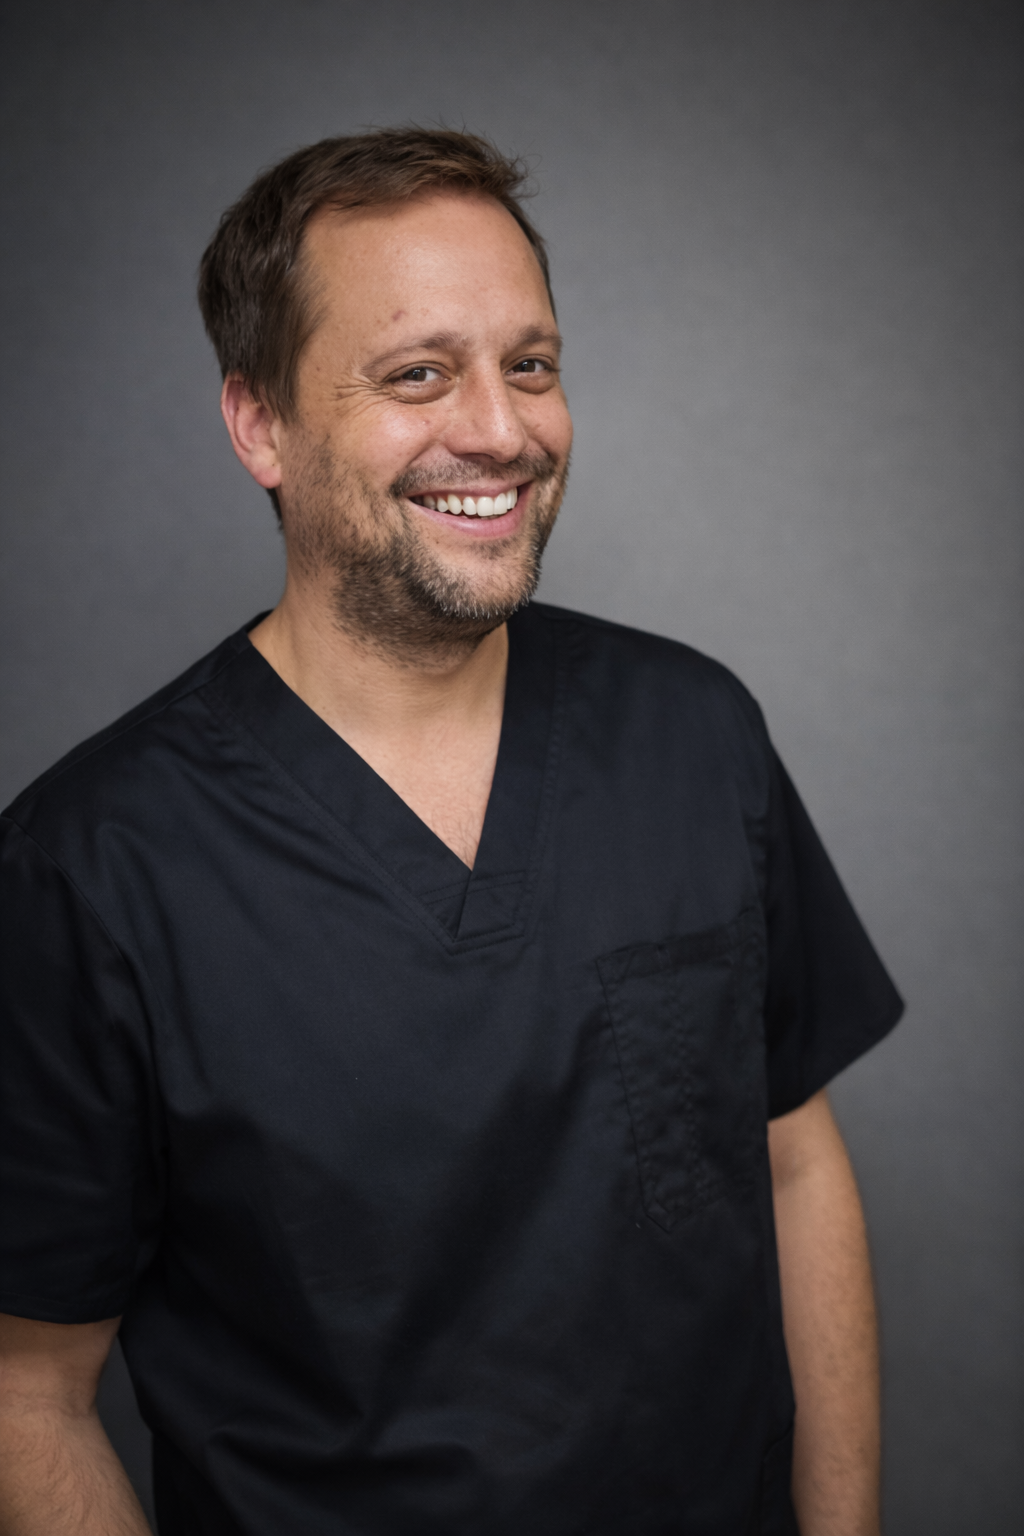
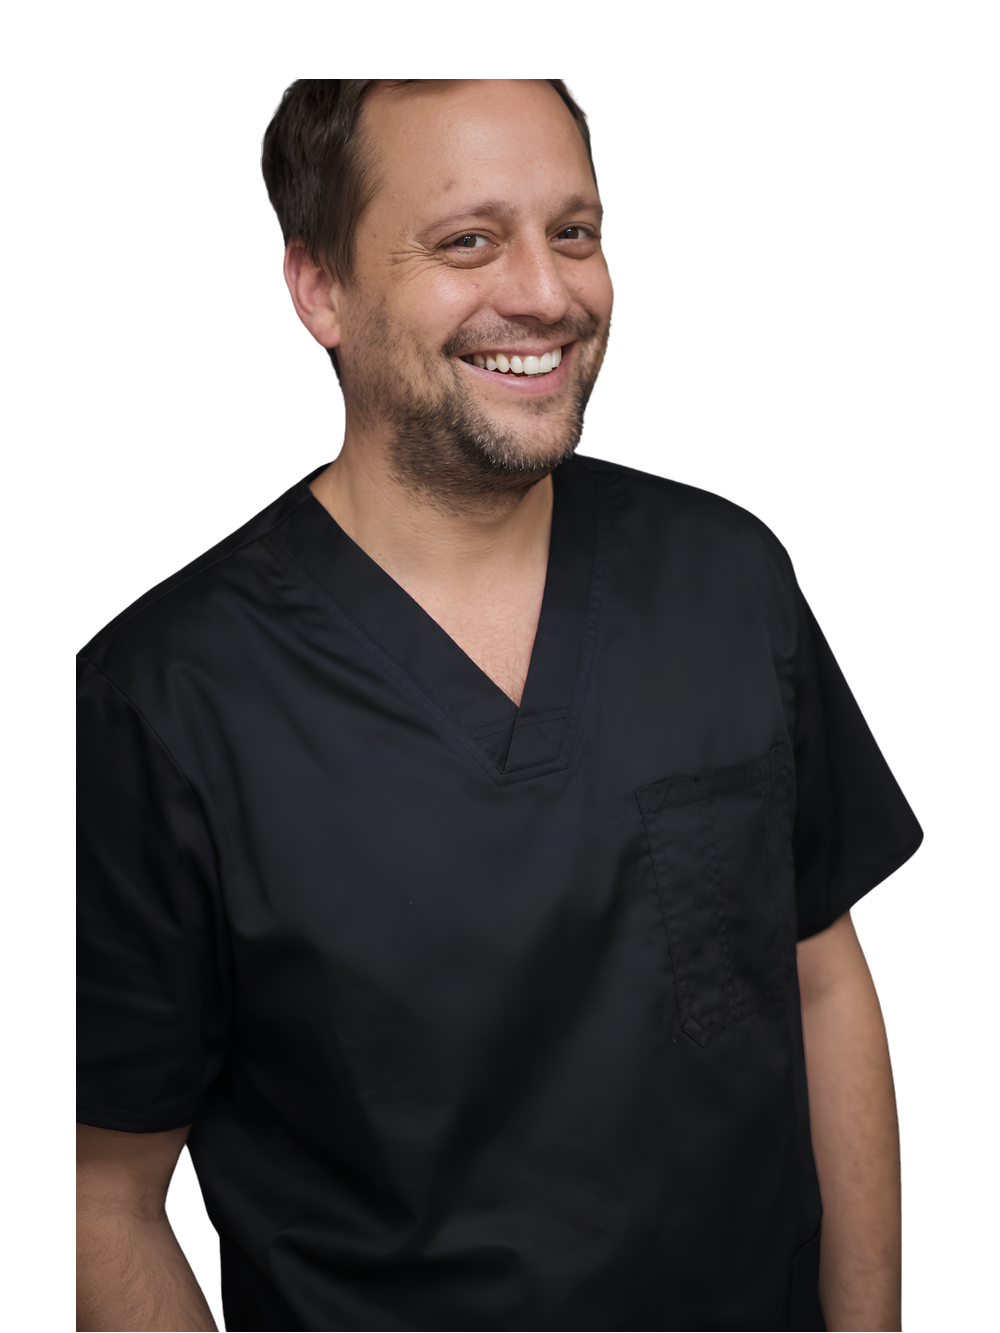
feat: retratos de estudio del equipo y foto del kit Familia ZK
Dos encargos del director de marketing.

RETRATOS

Los 13 profesionales se mostraban con fotos tomadas en distintos lugares de
las sedes: murales, pasillos, salas, cada una con su luz y su fondo. La grilla
se leía como un collage. Entra el set de estudio sobre fondo blanco.

No se pegaron tal cual. En el set original el sujeto ocupa entre 73% y 100%
del ancho según la foto, y el isotipo ocupa el 18% superior de cada archivo.
Pegarlos directo habría dejado la grilla igual de despareja, sólo que con otro
fondo. Cada retrato se normaliza a la misma proporción, la misma escala de
rostro y el mismo aire sobre la cabeza.

El fondo blanco se recorta a transparencia por inundación DESDE LOS BORDES y
no por umbral global: con umbral, una bata clara o un delantal blanco quedan
agujereados. Verificado sobre los casos difíciles antes de aplicarlo a los 13.

Los recortes van sobre un panel de marca. Sin él flotan sobre el blanco de la
página y a tamaño de tarjeta se leen como un error de carga.

La ficha de Dirección Clínica lleva encuadre propio: su retrato es de cuerpo
entero y a la escala de la grilla la persona que encabeza el equipo se leía
más chica que el resto. Con el acercamiento su rostro toma el tamaño de los
demás y la carpeta de Familia ZK que sostiene queda legible.

En teléfono el retrato sube de 116px a 150px: apilado sobre el texto, el
tamaño de escritorio dejaba media tarjeta vacía al lado.

KIT FAMILIA ZK
[…]

diff --git a/src/data/equipo.ts b/src/data/equipo.ts
@@ -24,7 +24,7 @@ export const EQUIPO: Profesional[] = [
     area: 'Endodoncia',
     sedes: ['Pucón'],
     dir: true,
-    foto: 'pu-romina-hernandez.jpg',
+    foto: 'pu-romina-hernandez.png',
     bio: 'Participa en la coordinación de criterios y procesos destinados a fortalecer una atención responsable, ordenada y coherente entre las distintas áreas de Clínica ZK.',
     bioDir:
       'En su práctica clínica desarrolla atención en endodoncia, orientada al tratamiento de piezas dentales cuya parte interna se encuentra afectada y que, según el diagnóstico, pueden conservarse mediante un tratamiento especializado.',
@@ -33,7 +33,7 @@ export const EQUIPO: Profesional[] = [
     name: 'Dra. Natalia Contreras',
     area: 'Odontopediatría',
     sedes: ['Pucón'],
-    foto: 'pu-natalia-contreras.jpg',
+    foto: 'pu-natalia-contreras.png',
     bio: 'Atención odontológica dirigida a niñas y niños, con énfasis en prevención, diagnóstico, desarrollo de hábitos y acompañamiento adaptado a las distintas etapas de la infancia.',
   },
   {
@@ -55,63 +55,63 @@ export const EQUIPO: Profesional[] = [
     area: 'Implantología bucomaxilofacial',
     sedes: ['Los Ángeles', 'Pucón'],
     agendaPucon: true,
-    foto: 'tomas-gonzalez.jpg',
+    foto: 'tomas-gonzalez.png',
     bio: 'Atención relacionada con implantología y procedimientos bucomaxilofaciales, de acuerdo con la evaluación, el diagnóstico y la planificación indicada para cada paciente. La atención en Pucón se realiza en fechas programadas y se encuentra sujeta a disponibilidad de agenda.',
   },
   {
     name: 'Dra. Catalina Neira',
     area: 'Trastornos temporomandibulares',
     sedes: ['Los Ángeles'],
-    foto: 'la-catalina-neira.jpg',
+    foto: 'la-catalina-neira.png',
     bio: 'Evaluación de molestias relacionadas con la articulación temporomandibular y los músculos asociados, como dolor mandibular o facial, ruidos articulares, dificultad de apertura o molestias al masticar.',
   },
   {
     name: 'Dra. Paola Jerez',
     area: 'Ortodoncia',
     sedes: ['Los Ángeles'],
-    foto: 'la-paola-jerez.jpg',
+    foto: 'la-paola-jerez.png',
     bio: 'Evaluación y tratamiento de la posición de los dientes y la mordida mediante una planificación personalizada y controles periódicos.',
   },
   {
     name: 'Dr. Manuel Gómez',
     area: 'Endodoncia',
     sedes: ['Los Ángeles'],
-    foto: 'la-manuel-gomez.jpg',
+    foto: 'la-manuel-gomez.png',
     bio: 'Atención orientada al diagnóstico y tratamiento de piezas dentales cuya parte interna se encuentra afectada por caries profundas, lesiones o infecciones.',
   },
   {
     name: 'Dra. Gabriela Muñoz',
     area: 'Odontología general',
     sedes: ['Los Ángeles'],
-    foto: 'la-gabriela-munoz.jpg',
+    foto: 'la-gabriela-munoz.png',
     bio: 'Evaluación, diagnóstico, prevención y tratamiento de las necesidades odontológicas generales, junto con la orientación necesaria para determinar si el paciente debe continuar su atención en otra área clínica.',
   },
   {
     name: 'Dra. Karla Salazar',
     area: 'Odontopediatría',
     sedes: ['Los Ángeles'],
-    foto: 'la-karla-salazar.jpg',
+    foto: 'la-karla-salazar.png',
     bio: 'Atención odontológica dirigida a niñas y niños, con énfasis en prevención, diagnóstico, formación de hábitos y acompañamiento adaptado a las distintas etapas de la infancia.',
   },
   {
     name: 'Dra. Nicole Salcedo',
     area: 'Odontología general',
     sedes: ['Los Ángeles'],
-    foto: 'la-nicole-salcedo.jpg',
+    foto: 'la-nicole-salcedo.png',
     bio: 'Evaluación, diagnóstico, prevención y tratamiento de las necesidades odontológicas generales, junto con la orientación necesaria para definir los siguientes pasos del cuidado.',
   },
   {
     name: 'Dr. Andrés Moya',
     area: 'Periodoncia e implantología',
     sedes: ['Los Ángeles'],
-    foto: 'la-andres-moya.jpg',
+    foto: 'la-andres-moya.png',
     bio: 'Evaluación y tratamiento de condiciones que afectan las encías y los tejidos que sostienen los dientes, junto con la planificación de alternativas de implantología cuando el caso clínico lo requiere.',
   },
   {
     name: 'Dra. Camila Sánchez',
     area: 'Rehabilitación oral, implantología y prótesis',
     sedes: ['Los Ángeles'],
-    foto: 'la-camila-sanchez.jpg',
+    foto: 'la-camila-sanchez.png',
     bio: 'Planificación de tratamientos orientados a recuperar dientes dañados o ausentes, mejorar la función y abordar necesidades de rehabilitación mediante distintas alternativas clínicas y protésicas.',
   },
 ];

diff --git a/src/styles/responsive/familia-zk.css b/src/styles/responsive/familia-zk.css
@@ -107,6 +107,19 @@
     padding: 28px 22px 32px !important;
   }
 
+  /* La foto del kit sangra hasta el borde de la tarjeta cancelando su padding
+     con márgenes negativos. Como el padding cambia en teléfono, el sangrado
+     tiene que cambiar con él: con los valores de escritorio se pasaría 16px por
+     lado. */
+  .zk-kit-foto {
+    /* `max-width: none` porque la guarda global de la capa responsiva limita
+       toda imagen al 100% de su columna, y aquí el sangrado necesita pasarse a
+       propósito: sin esto la foto quedaba 44px corta contra el borde derecho. */
+    max-width: none !important;
+    width: calc(100% + 44px) !important;
+    margin: 20px -22px -32px !important;
+  }
+
   /* Entre la tarjeta de pasos y los botones de WhatsApp quedaban 144px de
      aire (margin-top 88px + padding-top 56px del borde), la tira de aire
      que pide evitar el brief. */

diff --git a/src/styles/responsive/equipo-clinico.css b/src/styles/responsive/equipo-clinico.css
@@ -97,4 +97,13 @@
   #zk-grilla [data-ficha] > div:first-child {
     flex-direction: column !important;
   }
+
+  /* Apilado, el retrato conserva los 116px que en escritorio compartía fila con
+     el texto, y queda como un bloque chico contra el borde izquierdo con media
+     tarjeta vacía al lado. Ahora que es un recorte sobre un panel de color, ese
+     desbalance se nota. Sube a 150px, en la misma familia que los 168px de la
+     ficha destacada. */
+  #zk-grilla [data-ficha] [class*='zk-retrato'] {
+    width: 150px !important;
+  }
 }

diff --git a/docs/USER-DECISIONS.md b/docs/USER-DECISIONS.md
@@ -281,6 +281,39 @@
 
 ---
 
+## [UD-018] Retratos de estudio sobre fondo blanco en vez de fotos de contexto
+
+**Fecha:** 2026-08-01
+**Contexto:** El equipo se mostraba con fotografías tomadas en distintos lugares de las sedes: murales, pasillos, salas, cada una con su iluminación y su fondo. La grilla se leía como un collage. El director entregó un set nuevo de 13 retratos de estudio, recortados sobre fondo blanco, uno por profesional.
+**Decisión:** Los 13 retratos de contexto se reemplazan por el set de estudio. El encuadre no se usa tal cual: cada retrato se normaliza a la misma proporción, la misma escala de rostro y el mismo aire sobre la cabeza, y el fondo blanco se recorta a transparencia para asentarlo sobre un panel de color de marca.
+**Alternativas descartadas:**
+- Pegar los recortes tal cual: el sujeto ocupa entre 73% y 100% del ancho según la foto, así que la grilla habría quedado despareja igual que antes, sólo que con otro fondo.
+- Dejarlos sobre blanco sin panel: sobre el blanco de la página los recortes flotan sin borde y a tamaño de tarjeta se leen como un error de carga.
+**Consecuencias:**
+- (+) La grilla se lee como un equipo y no como una suma de fotos sueltas.
+- (+) Los retratos dejan de mostrar interiores de las sedes, lo que reduce la superficie de datos de terceros que hay que auditar (MASTER-SPEC §4.10).
+- (-) Se pierde el contexto clínico que daban las fotos anteriores.
+- (-) La ficha de Dirección Clínica necesita un encuadre propio: su retrato es de cuerpo entero y a la escala del resto la persona que encabeza el equipo se leía más chica.
+**Condiciones de reversión:** Si la clínica prefiere volver a mostrar a cada profesional en su box. Los originales del set de estudio se conservan fuera del repositorio.
+
+## [UD-019] El criterio estético de la integración queda delegado en el agente
+
+**Fecha:** 2026-08-01
+**Contexto:** El director pidió integrar "de forma orgánica" el render del kit Familia ZK, sin indicar dónde. El desarrollador declaró una lesión que le impedía involucrarse en el proceso y delegó explícitamente: *"confío mucho en tu criterio estético para esto y en tu capacidad de probar cosas y ver capturas"*.
+**Decisión:** El agente elige la ubicación y el tratamiento, y responde por ellos mostrando capturas. El render va dentro de la tarjeta "¿Cómo comenzar?" de Familia ZK, a sangre contra el borde, inmediatamente bajo la frase que ya lo anuncia: *"recibirás tu kit de incorporación Familia ZK"*.
+**Alternativas descartadas:**
+- Una banda propia a lo ancho: habría exigido inventar un titular, y el copy es verbatim del handoff.
+- Recortar el fondo del render: es una fotografía de estudio con degradado y sombras de contacto; recortarla la habría dejado con objetos flotando.
+- Un cuadrado con aire alrededor dentro de la tarjeta: se lee como estampilla pegada. A sangre se lee como parte de la pieza.
+**Consecuencias:**
+- (+) La ubicación no necesitó texto nuevo: el copy existente ya pedía la imagen.
+- (+) Convierte una promesa abstracta en algo que se puede ver antes de contratar.
+- (-) La tarjeta queda bastante más alta que la columna que tiene al lado.
+- (-) La decisión no pasó por el director: si no le acomoda, se mueve.
+**Condiciones de reversión:** Si el director prefiere otra ubicación. Mover la imagen es mover un bloque y ajustar el sangrado.
+
+---
+
 ## Anotación de auditoría documental (2026-07-30)
 
 `UD-010` y `UD-011` fueron escritas con cuatro de los cinco campos del formato ADR: declaran fecha, contexto, decisión, alternativas y razón, pero **no declaran consecuencias ni condiciones de reversión**. No se completan aquí porque hacerlo sería atribuirle al usuario un razonamiento que no consta en el registro de la conversación. Quedan marcadas como incompletas para que él las cierre cuando quiera.

diff --git a/docs/CHANGELOG.md b/docs/CHANGELOG.md
@@ -18,6 +18,26 @@ y este proyecto adhiere a [Versionado Semántico](https://semver.org/spec/v2.0.0
 - Revisión de la versión móvil por el director en un teléfono real.
 - Decisión sobre justificar párrafos: la comparativa está hecha y medida, falta que el director elija.
 
+## [3.3.0] - 2026-08-01
+
+> Dos encargos del director de marketing: el set nuevo de retratos y el render del kit.
+
+### Cambiado
+- **Los 13 retratos del equipo** se reemplazan por el set de estudio sobre fondo blanco. No se pegaron tal cual: cada uno se normalizó a la misma proporción, la misma escala de rostro y el mismo aire sobre la cabeza, porque el sujeto ocupaba entre 73% y 100% del ancho según la foto. El fondo blanco se recortó a transparencia por inundación desde los bordes, no por umbral, para no agujerear las batas claras. Van sobre un panel de marca que los asienta. Ver USER-DECISIONS UD-018.
+- La ficha de Dirección Clínica lleva un encuadre propio: su retrato es de cuerpo entero y a la escala de la grilla se leía más chica que el resto del equipo.
+- En teléfono el retrato de cada ficha sube de 116px a 150px: apilado sobre el texto, el tamaño de escritorio dejaba media tarjeta vacía al lado.
+
+### Añadido
+- **Fotografía del kit de incorporación Familia ZK**, dentro de la tarjeta "¿Cómo comenzar?" y a sangre contra su borde, bajo la frase que ya lo anunciaba. No se agregó copy: el texto existente pedía la imagen. Ver USER-DECISIONS UD-019.
+
+### Verificado
+- Los 13 retratos cargan en escritorio y en teléfono, el filtro por sede sigue operando (12 fichas a 4 en Pucón) y el contador marca 13.
+- Auditoría de datos de terceros sobre el material nuevo (MASTER-SPEC §4.10): los retratos son recortes sin fondo, sin patentes, carteles ni personas ajenas al equipo. En el render del kit los campos de la ficha (paciente titular, RUT, fecha, vigencia, canal de contacto) están **en blanco**; el único dato impreso es el nombre del producto.
+- Cero scroll horizontal en Equipo y Familia ZK a 375 y 1440px. `astro check` sin errores, build en verde.
+
+### Corregido
+- El sangrado de la foto del kit quedaba 44px corto contra el borde derecho en teléfono: la guarda global de la capa responsiva (`img { max-width: 100% }`) recortaba el desborde deliberado. La imagen queda exceptuada.
+
 ## [3.2.7] - 2026-07-31
 
 ### Documentación

diff --git a/docs/TODO.md b/docs/TODO.md
@@ -1,4 +1,4 @@
-# TODO: Clínica ZK v3.2.7
+# TODO: Clínica ZK v3.3.0
 
 > Trazabilidad directa: cada tarea referencia checks de `VERIFICATION.md`.
 
@@ -503,6 +503,24 @@
 
 ---
 
+## [EPIC-013] Material gráfico entregado por el cliente
+
+> Ref: USER-DECISIONS UD-018 y UD-019 · CHANGELOG 3.3.0
+
+### [TASK-044] Reemplazar los retratos e integrar el render del kit
+
+**Checks cubiertos:** `CONT.CR.026.LLM`, `CONT.IN.008.LLM`, `CONT.CR.027.HUM`
+
+- [x] 13 retratos de estudio normalizados: misma proporción, escala de rostro y aire superior `2026-08-01`
+- [x] Fondo blanco recortado a transparencia por inundación desde los bordes, para no agujerear las batas claras `2026-08-01`
+- [x] Panel de marca detrás del recorte; encuadre propio para la ficha de Dirección Clínica `2026-08-01`
+- [x] Retrato de 150px en teléfono, donde el tamaño de escritorio dejaba media tarjeta vacía `2026-08-01`
+- [x] Render del kit a sangre en la tarjeta "¿Cómo comenzar?", bajo la frase que ya lo anunciaba `2026-08-01`
+- [x] Auditoría de datos de terceros sobre el material nuevo `2026-08-01`
+- [ ] **PENDIENTE (Clínica ZK):** aprobación del director sobre el tratamiento y la ubicación (`CONT.CR.027.HUM`)
+
+---
+
 ## Resumen general de cobertura
 
 | Épica | Tareas | Estado | 🤖 .LLM | 🧑 .HUM | 🤖🧑 .MIX | Total checks |
@@ -519,11 +537,12 @@
 | EPIC-010 | TASK-036 a TASK-039 | ⏳ 11 hechas, 3 pendientes | 7 | 1 | 0 | 8 |
 | EPIC-011 | TASK-040 a TASK-042 | ⏳ 12 hechas, 1 pendiente | 9 | 2 | 0 | 11 |
 | EPIC-012 | TASK-043 | ⏳ 6 hechas, 1 pendiente | 1 | 0 | 0 | 1 |
-| **Total (checks únicos)** | 43 tareas | | **51** | **22** | **0** | **73** |
+| EPIC-013 | TASK-044 | ⏳ 6 hechas, 1 pendiente | 2 | 1 | 0 | 3 |
+| **Total (checks únicos)** | 44 tareas | | **53** | **23** | **0** | **76** |
 
 > El total es el conjunto único de checks, no la suma de la columna: 6 checks aparecen en más de una épica porque una misma promesa se sostiene desde varias tareas.
 
-> VERIFICATION declara 73 checks únicos y las 43 tareas referencian esos mismos 73: ningún
+> VERIFICATION declara 76 checks únicos y las 44 tareas referencian esos mismos 76: ningún
 > check queda sin tarea que lo reclame, y ninguna tarea apunta a un check inexistente.
 > Contado por herramienta el 2026-07-31.
 

diff --git a/docs/VERIFICATION.md b/docs/VERIFICATION.md
@@ -1,4 +1,4 @@
-# VERIFICATION: Clínica ZK v3.2.7
+# VERIFICATION: Clínica ZK v3.3.0
 
 > Verdad canónica de todas las verificaciones formales de promesas y de los límites de testing.
 > Generado y mantenido exclusivamente por el algoritmo `/derive`.
@@ -126,6 +126,17 @@ OPS/OAS: Operaciones
 la salida impresa del afiche sin comprobarla. Al verificarlo de verdad apareció el defecto
 que corrigió `RSP.FN.012.LLM`. Queda anotado porque el valor de este documento depende de
 que un tilde signifique que la comprobación se corrió, no que se esperaba que pasara.
+
+
+---
+
+## Verificación del material gráfico nuevo (2026-08-01)
+
+> Ref: USER-DECISIONS UD-018 y UD-019.
+
+🤖 `CONT.CR.026.LLM` Los 13 retratos del equipo son el set de estudio, normalizados a la misma proporción, escala de rostro y aire superior. Cargan sin fallo en escritorio y en teléfono; el filtro por sede sigue operando (12 fichas a 4) y el contador marca 13. ✅ (🤖 Verificado por herramienta; 2026-08-01 10:58)
+🤖 `CONT.IN.008.LLM` El material gráfico nuevo no expone datos de terceros: los retratos son recortes sin fondo, sin patentes, carteles ni personas ajenas al equipo, y en el render del kit los campos de la ficha (paciente titular, RUT, fecha de inicio, vigencia, canal de contacto) están en blanco. ✅ (🤖 Verificado por herramienta; 2026-08-01 10:52)
+🧑 `CONT.CR.027.HUM` El director aprueba el tratamiento de los retratos y la ubicación elegida para el render del kit. La ubicación la decidió el agente por delegación explícita, no el cliente. 🔲
 
 ### Límites declarados de esta verificación
 

diff --git a/docs/MASTER-SPEC.md b/docs/MASTER-SPEC.md
@@ -1,4 +1,4 @@
-# MASTER-SPEC: Clínica ZK v3.2.7
+# MASTER-SPEC: Clínica ZK v3.3.0
 
 > Sitio web institucional para Clínica ZK. Clínica dental con sucursales en Los Ángeles y Pucón.
 
